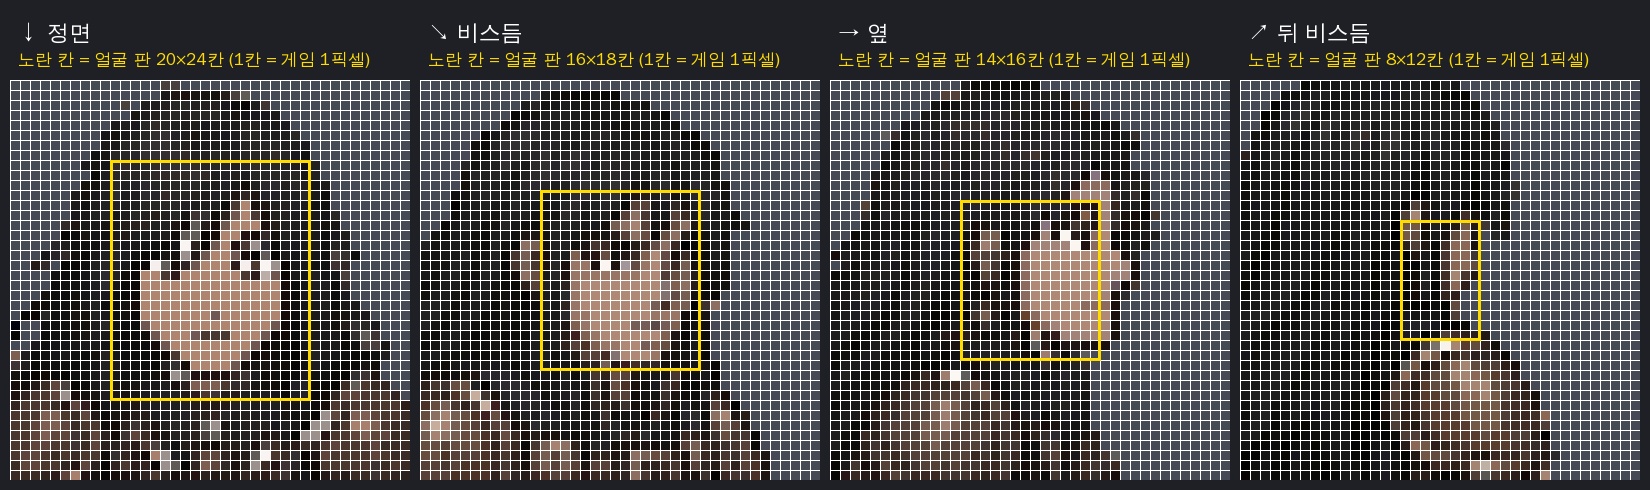
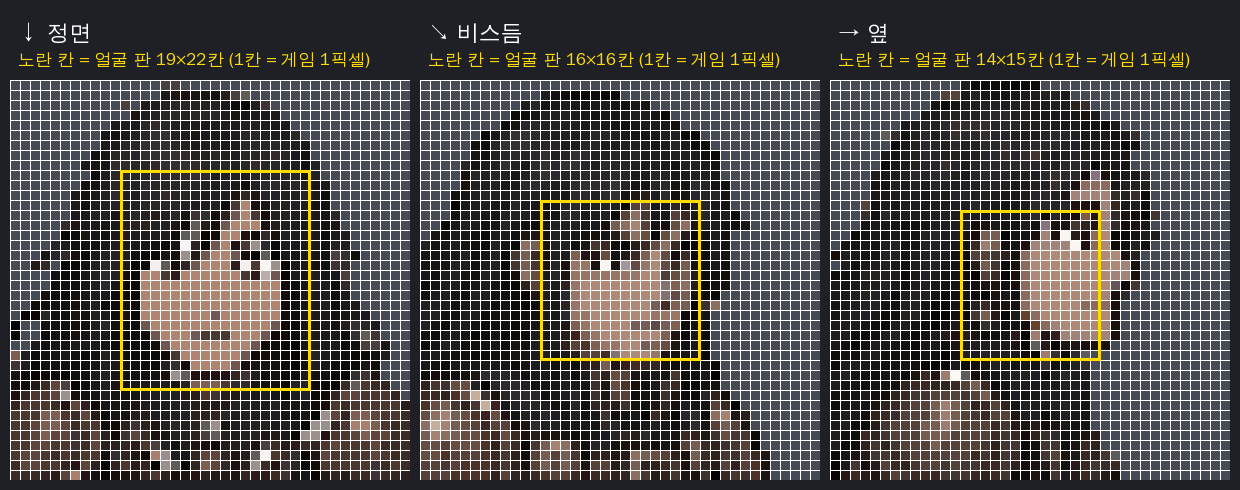
얼굴 판 그록 부탁: 검흔 보충 반영 (3방향·판 크기·옆 눈·기울기)
Claude-Session: https://claude.ai/code/session_01Ed92eTBNbhN1yf3zW3burX

diff --git a/docs_art/hero_face/GROK_FACE_REQUEST_ko.md b/docs_art/hero_face/GROK_FACE_REQUEST_ko.md
@@ -12,7 +12,7 @@
 
 ## 2. 그록에 붙여 넣을 글
 
-> 같이 올릴 그림: `docs_art/hero_face/face_ref_for_grok.png` (지금 주인공 머리를 10배로 키운 것, 노란 칸 = 얼굴 판 크기)
+> 같이 올릴 그림: `docs_art/hero_face/face_ref_for_grok.png` (지금 주인공 머리 3방향을 10배로 키운 것, 노란 칸 = 얼굴 판 크기)
 
 ```
 지금 게임 주인공(긴 검은 머리, 갈색 피부, 어두운 코트)의 "얼굴 판"을 도트로 그려 줘.
@@ -23,18 +23,18 @@
 - 진짜 도트: 게임 1픽셀을 정확히 10x10 정사각형 한 칸으로. 칸이 반듯하게 격자에 맞고, 경계를 부드럽게 섞지 마(안티에일리어싱 금지).
 - PNG, 바탕 투명. jpg 금지.
 - 색은 6개만: 피부 밝음 / 피부 기본(#af8570 근처) / 피부 그림자 / 눈(진한 색) / 눈 반짝임(흰색) / 입·볼. 쓴 색의 hex 코드를 같이 적어 줘.
-- 눈 = 2x2 진한 점 + 흰 반짝임 1칸. 흰자 세모 금지.
+- 눈: 정면·비스듬 = 2x2 진한 점 + 흰 반짝임 1칸. 옆 = 폭 1칸 x 높이 2칸 진한 세로줄, 옆 윤곽선에서 1칸 안쪽. 흰자 세모 금지.
 - 코·입은 1칸짜리 점·선. 턱선 1칸.
-- 정면·비스듬 판에는 바깥 테두리 선을 넣지 마(몸 그림의 턱선을 그대로 씀). 옆 판만 코·턱 옆선 1칸 포함, 코끝은 뺨 선보다 1칸 앞으로.
+- 정면·비스듬 판에는 바깥 테두리 선을 넣지 마(몸 그림의 턱선을 그대로 씀). 옆 판만 코·턱 옆선 1칸 포함, 코는 윤곽선에 1칸 혹.
 - 얼굴 판에는 머리카락을 넣지 마. 앞머리는 따로 "앞머리 층"으로 그려 줘(같은 칸 위치, 투명 바탕).
 
 그려 줄 것 (판 크기는 게임 칸 기준)
-1) 방향 4개: 정면↓ 20x24 / 비스듬↘ 16x18 / 옆→ 14x16 / 뒤 비스듬↗ 8x12(뺨과 귀 끝만 보임)
+1) 방향 3개: 정면↓ 19x22 / 비스듬↘ 16x16 / 옆→ 14x15 (살색 + 둘레 2~3칸)
 2) 표정 3개 (방향마다): 기본 / 힘줌(공격, 눈썹 내리고 입 다묾) / 아픔(맞기, 눈 질끈)
 3) 깜빡임: 방향마다 눈만 감은 작은 판
 4) 달리기용 숙인 판: 방향마다 고개를 약 10도 숙인 기본 얼굴
 5) 앞머리 층: 방향마다 1장
-한 장에 방향별로 줄을 맞춰 나란히 놓아 줘(줄 = 방향, 칸 = 기본·힘줌·아픔·깜빡임·숙임·앞머리).
+한 장에 방향별로 줄을 맞춰 나란히 놓아 줘(줄 = 방향 3개, 칸 = 기본·힘줌·아픔·깜빡임·숙임·앞머리).
 ```
 
 ## 3. 받은 뒤 찍는 법 (모션 담당)
@@ -44,7 +44,9 @@
 4. 몸 그림 피부도 같은 6색으로 바꾼다 → 판만 밝거나 어두워 보이는 일이 없다.
 5. 지금 피부인 곳 ±1px만 바꾼다. 새 피부를 늘리지 않는다.
 6. 장마다 자리는 표(dx, dy, 판 번호)로 정한다(Stardew 방식). 얼굴은 머리 출렁임을 그대로 따라가고, v1의 0.4~2.3px 떨림은 표로 없앤다. 옆얼굴은 머리 테두리로 자리를 찾는다.
-7. 고개 10°까지는 같은 판, 달리기 숙임은 숙인 판. 깜빡임은 3~5초마다 1~2틱.
+7. 고개 ±5°까지는 같은 판(16px 얼굴에서 끝 1.4px 차이), 5~12°는 숙인 판, 그보다 크면(맞기·쓰러짐) 찍지 않는다. 판을 따로 1px 들썩이지 않는다(떠 보임) — 머리 출렁만 따른다. 깜빡임은 3~5초마다 1~2틱.
+7-1. 경계는 섞지 않는다. 판 둘레 1px만 「그 장 색과 판 색 중 더 어두운 쪽」으로 해 턱선을 살린다.
+7-2. ↗ 는 얼굴이 4×4라 찍지 않고 몸 그림 그대로, ↑ 는 앞머리 층도 없음. 옆 자리는 「머리 꼭대기 + 뒤통수 끝」 두 점으로 찾는다. 옆 정본 1장만 손으로 2~3px 고치면 모든 장에 반영된다.
 8. 크기는 찍은 뒤 바꾸지 않는다. 확인은 100% 크기 + 제자리 돌기·원 배치 영상.
 
 ## 4. 출처 (인터넷)
